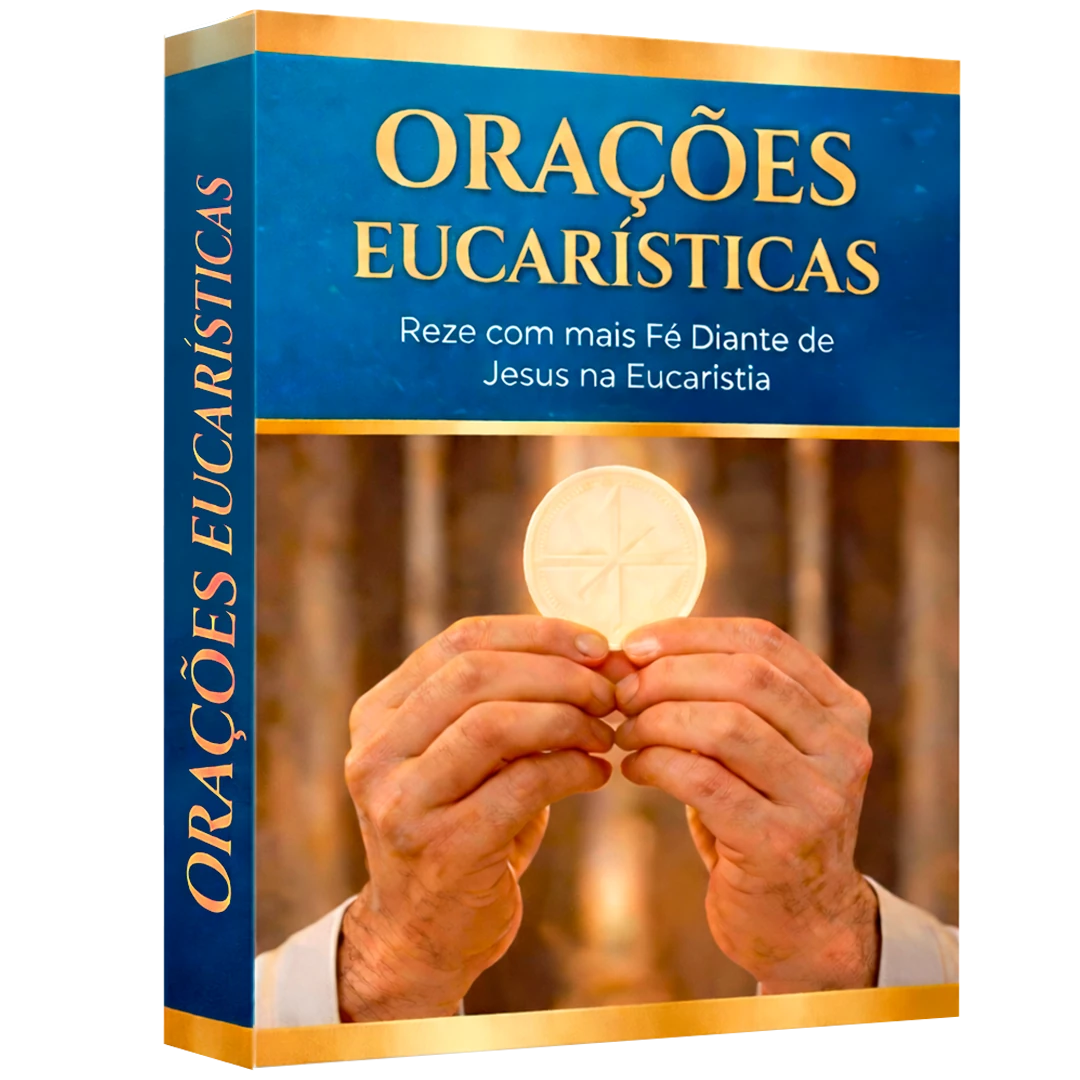
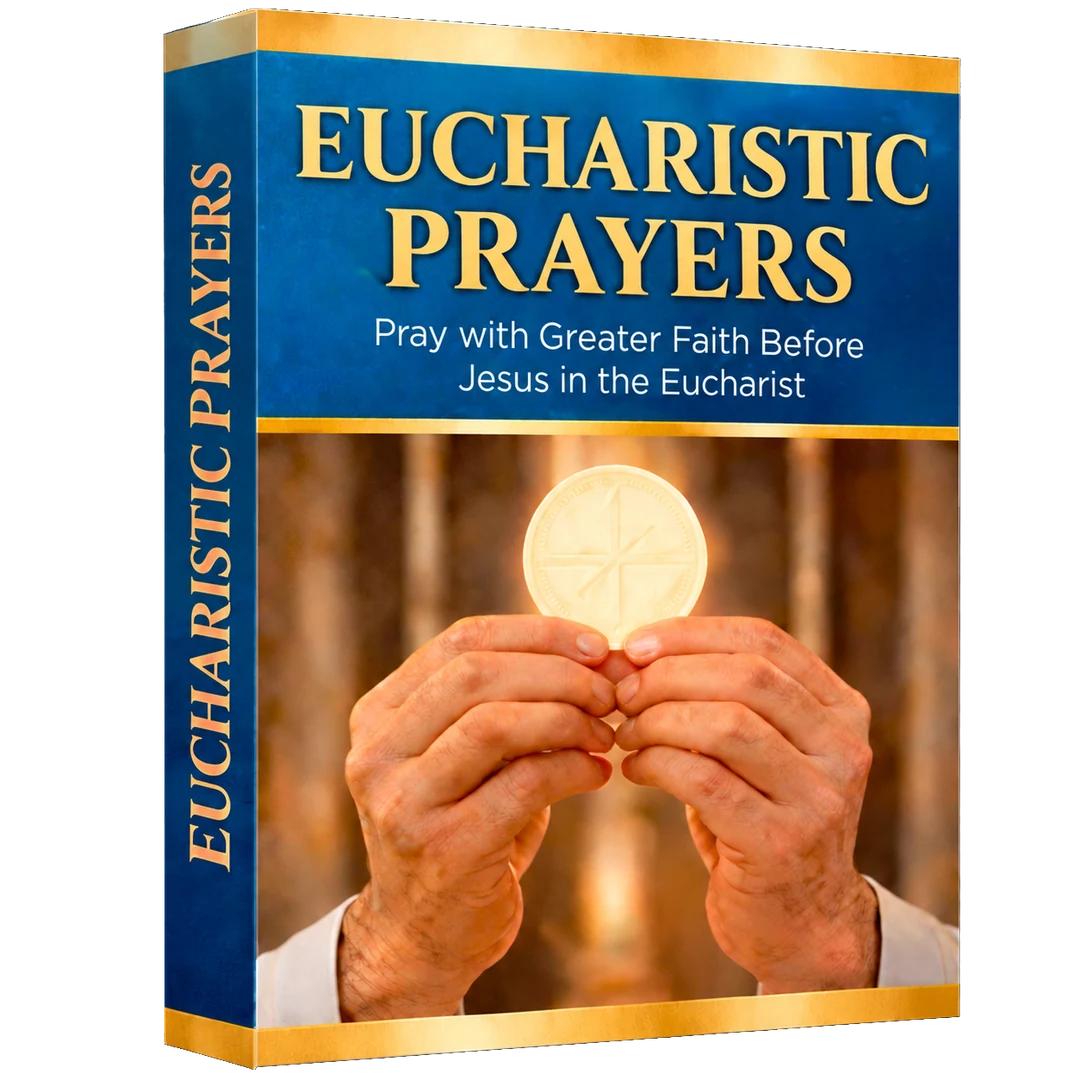
feat(eucharistic-miracle): capas em ingles (mockup, 5 bonus e selo de garantia)
Substitui as 6 capas pelas versoes em ingles de INGLES/SITE/IMAGENS,
convertidas para webp 1080x1080 (mesmas dimensoes das anteriores, entao o
layout nao muda) com transparencia preservada.

ATENCAO no mapeamento: os arquivos BONUS 3 e BONUS 4 estavam cruzados em
relacao a ordem da pagina. Conferido abrindo cada capa:
  BONUS 1 = Eucharistic Prayers            -> bonus-1
  BONUS 2 = How to Receive Holy Communion  -> bonus-2
  BONUS 4 = Eucharistic Saints             -> bonus-3
  BONUS 3 = Guide to Eucharistic Adoration -> bonus-4
  7_PROMISES                               -> bonus-5

Selo de garantia: o anterior estava em portugues ("15 dias / OU SEU DINHEIRO
DE VOLTA / GARANTIA"). Reaproveitado o selo em ingles que ja existia na
pagina do Missa EN (guarantee-badge.png -> .webp). Alt corrigido tambem.

Fica pendente: as 4 imagens do carrossel (mockup-interno-1..4) continuam em
portugues E sao paginas do produto "A Santa Missa Explicada", nao do Milagre
Eucaristico - vieram junto do template e nao havia substitutas na pasta.

diff --git a/eucharistic-miracle/index.html b/eucharistic-miracle/index.html
@@ -337,7 +337,7 @@
     <section class="guarantee-section">
         <div class="container">
             <div class="guarantee-content">
-                <img src="./assets/guarantee-badge.png" alt="Selo de Garantia de 15 Dias" class="guarantee-badge">
+                <img src="./assets/guarantee-badge.webp" alt="15-Day Money-Back Guarantee Seal" class="guarantee-badge">
                 <h2 class="guarantee-title">Unconditional 15-Day Guarantee</h2>
                 <p class="guarantee-description">
                     If for any reason you are not satisfied with the material, just send us an email within 15 days and we'll refund 100% of your money. No questions, no red tape.
